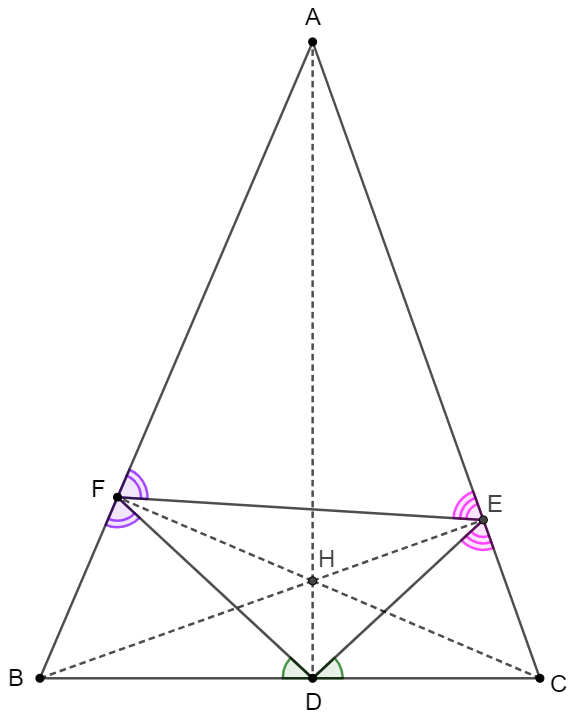
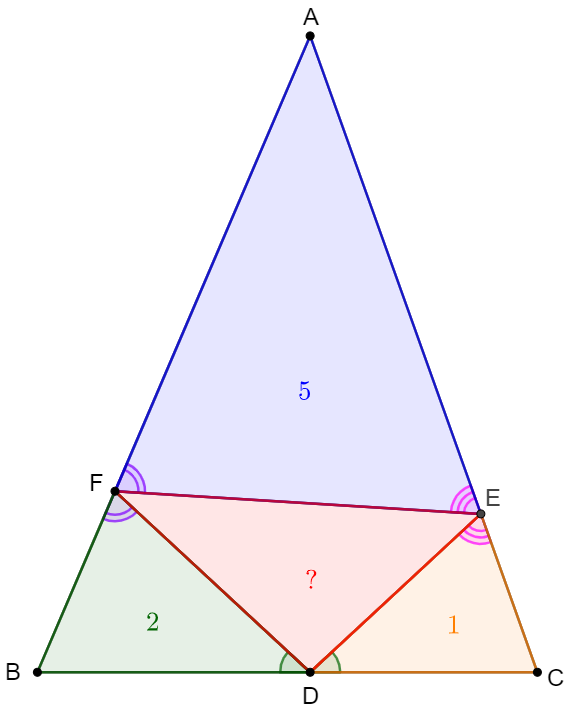
add posts

diff --git a/_posts/2024-10-04-wo.md b/_posts/2024-10-04-wo.md
@@ -74,19 +74,34 @@ $$
 
 ---
 
-### asdas
+### 10/13/2024
 
-#### asdsa
+#### $D,E,F$ are on side $BC, CA, AB$ of $\triangle{ABC}$ respectively such that $\angle{AFE}=\angle{BFD}$, $\angle{AEF}=\angle{CED}$, $\angle{BDF}=\angle{CDE}$, and $[AEF]=5$,$[BDF]=2$, $[CDE]=1$, find $[DEF]$.
 
-![image-20241010054600395](/assets/images/2024/image-20241010054600395.png)
+![image-20241013233405056](/assets/images/2024/image-20241010054600395.png)
+
+**Solve:**
+
+![image-20241013232253781](/assets/images/2024/image-20241013231222876.png)
 $$
 \begin{multline}
-\shoveleft [BHF]=\dfrac{AH}{AD}[BDF], [CDH]=\dfrac{BH}{BE}[CDE], [AEH]=\dfrac{CH}{CF}[AEF]\\
-\shoveleft [AHF]=\dfrac{BH}{BE}[AEF], [BDH]=\dfrac{CH}{CF}[BDF], [CHE]=\dfrac{AH}{AD}[CDE]\\
-\shoveleft \implies (\dfrac{AH}{AD}+\dfrac{CH}{CF})[BDF]+(\dfrac{BH}{BE}+\dfrac{AH}{AD})[CDE]+(\dfrac{CH}{CF}+\dfrac{BH}{BE})[AEF]\\
-\shoveleft =[ABC]=[BDF]+[CDE]+[AEF]+[DEF] \implies [DEF]=\\
-\shoveleft (\dfrac{AH}{AD}+\dfrac{CH}{CF}-1)[BDF]+(\dfrac{BH}{BE}+\dfrac{AH}{AD}-1)[CDE]+(\dfrac{CH}{CF}+\dfrac{BH}{BE}-1)[AEF]\\
-\shoveleft \dfrac{AH}{AD}+\dfrac{CH}{CF}-1=\dfrac{AH}{AD}-\dfrac{FH}{CF}=\dfrac{\dfrac{AH \cdot CF}{AD}-FH}{CF}=\dfrac{\dfrac{AH \cdot BC}{BD}-FH}{CF}=\dfrac{\dfrac{FH \cdot CD}{BD}}{CF}=\dfrac{CF \cdot DH}{CF \cdot BD}=\dfrac{DH}{BD}\\
-\shoveleft \dfrac{BH}{BE}+\dfrac{AH}{AD}-1=\dfrac{BH}{BE}-\dfrac{DH}{AD}=\dfrac{\dfrac{BH \cdot AC}{BC}-DH}{AD}=\dfrac{\dfrac{DH \cdot AC}{CE}-DH}{AD}=\dfrac{\dfrac{AE\cdot DH}{CE}}{AD}=\dfrac{}{CE}
+\shoveleft \text{Let } \angle{BDF}=\angle{CDE}=\angle{1}, \angle{AFE}=\angle{BFD}=\angle{2}, \angle{AEF}=\angle{CED}=\angle{3}\\
+\shoveleft \implies \angle{A}+\angle{2}+\angle{3}=180^{\circ},\angle{B}+\angle{1}+\angle{2}=180^{\circ}, \angle{C}+\angle{1}+\angle{3}=180^{\circ}\\
+\shoveleft \implies 2(\angle{1}+\angle{2}+\angle{3})=360^{\circ}\implies \angle{1}+\angle{2}+\angle{3}=180^{\circ}\\
+\shoveleft \implies \angle{A}=\angle{1}, \angle{B}=\angle{3}, \angle{C}=\angle{2} \implies \triangle{AFE}\sim\triangle{DFB}\sim\triangle{DCE}\sim\triangle{ACB}\\
+\shoveleft \text{Let }x=\sqrt{\dfrac{[DEC]}{[ABC]}}, y=\sqrt{\dfrac{[DBF]}{[ABC]}}, z=\sqrt{\dfrac{[AEF]}{[ABC]}}, AB=c, BC=a, CA=b \implies\\
+\shoveleft  EF=xa, AF=xb, AE=xc, FB=ya, DF=yb, BD=yc, EC=za, CD=zb, DE=zc\\
+\shoveleft \implies BD+DC=BC=yc+zb=a  \implies c=\dfrac{1}{y}a-\dfrac{z}{y}b\\
+\shoveleft AE+EC=AC=xc+za=b \implies (\dfrac{x}{y}+z)a = (1+\dfrac{xz}{y})b\\
+\shoveleft AF+FB=AB=xb+ya=c \implies (\dfrac{1}{y}-y)a=(x+\dfrac{z}{y})b\\
+\shoveleft \implies \dfrac{x+yz}{1-y^2}=\dfrac{y+xz}{xy+z} \implies x^2+y^2+z^2+2xyz=1\\
+\shoveleft \text{Since }x^2+y^2+z^2+\dfrac{[DEF]}{[ABC]}=1 \implies \dfrac{[DEF]}{[ABC]}=2xyz\\
+\shoveleft \text{Let }s=[ABC], s_1=[AEF], s_2=[BDF], s_3=[DEC]\\
+\shoveleft \implies 2\sqrt{\dfrac{s_1s_2s_3}{s^3}}=1-\dfrac{s_1+s_2+s_3}{s}\\
+\shoveleft \implies s^3-2(s_1+s_2+s_3)s^2+(s_1+s_2+s_3)s-4s_1s_2s_3=0\\
+\shoveleft \text{Let }m=s_1+s_2+s_3, n=s_1s_2s_3 \implies s^3-2ms^2+m^2s-4n=0\\
+\shoveleft \implies s = \dfrac{\sqrt[3]{(6 \sqrt{3} \sqrt{n (27 n - m^3)} - m^3 + 54 n} + m)^2} {3 \sqrt[3]{(6 \sqrt{3} \sqrt{n (-(m^3 - 27 n))} - m^3 + 54 n}}\\
+\shoveleft \text{When }m=1+2+5, n=1*2*5, s=10, 3\pm\sqrt{5} \text{ (removed)}\\
+\shoveleft \implies [ABC]=10 \implies [DEF]=10-8=\bbox[5px, border: 1px solid black]{2}
 \end{multline}
 $$
